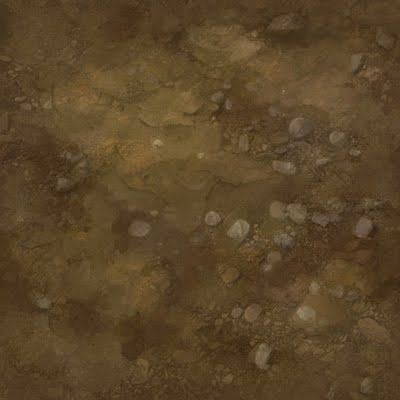
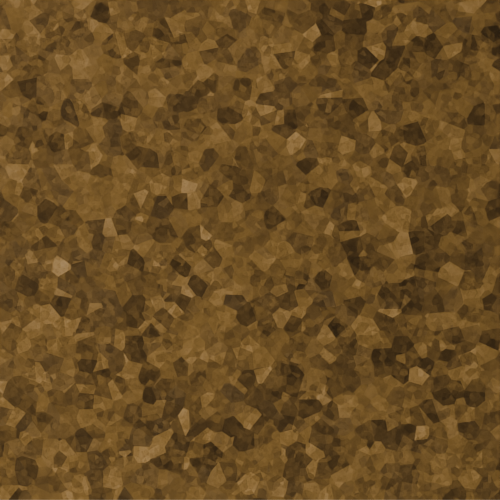
add animation to terrain tiles

diff --git a/traveler/src/a-game-scenes/location-scene/components/tile-components/relief-tile.vue b/traveler/src/a-game-scenes/location-scene/components/tile-components/relief-tile.vue
@@ -5,15 +5,23 @@
       :class="`tile-id-${tile.id}`"
       :data-id="tile.id"
   >
-    <div class="initialTileView mapTile" :style="getTileImage(tile.imageSrc)">
+    <div
+        class="initialTileView mapTile"
+        :style="getTileImage(tile.imageSrc)"
+        :class="{
+          'shake': isShaking,
+        }"
+    >
       <button
           class="mapTile tileButton"
           :disabled="!tile.isReachable"
           :class="{
     unreachable: !tile.isReachable,
     'reachable-tile': tile.isReachable && !tile.isHeroHere,
+    'chop-cursor': tile.isInitial && !isShaking,
+    'chop': isShaking
   }"
-          @click="checkTile(tile)"
+          @click="onTileClick(tile)"
       ></button>
     </div>
   </div>
@@ -36,13 +44,26 @@ export default {
   data() {
     const mapLocationStore = useMapLocationStore();
     const heroStore = useHeroStore();
-    return {mapLocationStore, heroStore};
+    return {
+      mapLocationStore,
+      heroStore,
+      isShaking: false,
+    };
   },
   methods: {
     getTileImage(imageSrc: string) {
       return {
         backgroundImage: `url(${imageSrc})`,
       };
+    },
+    async onTileClick(tile: TileModel) {
+      if (!tile.isReachable) return;
+
+      this.isShaking = true;
+      setTimeout(() => {
+        this.isShaking = false;
+        this.checkTile(tile);
+      }, 1000);
     },
     async checkTile(tile: TileModel) {
       if (!tile.isReachable) return;
@@ -58,4 +79,61 @@ export default {
 
 <style scoped>
 @import '@/a-game-scenes/location-scene/styles/animated-tile.css';
+
+@keyframes shake {
+  0% {
+    transform: translate(0, 0);
+  }
+  20% {
+    transform: translate(-2px, 0);
+  }
+  40% {
+    transform: translate(2px, 0);
+  }
+  60% {
+    transform: translate(-2px, 0);
+  }
+  80% {
+    transform: translate(2px, 0);
+  }
+  100% {
+    transform: translate(0, 0);
+  }
+}
+
+.shake {
+  animation: shake 0.3s linear 3;
+}
+
+.chop {
+  width: 100%;
+  height: 100%;
+  background-image: url('../../../battlefield-scene/battlefield/assets/axe-cursor-100x100.png');
+  background-repeat: no-repeat;
+  background-position: center;
+
+  animation: chopRotate 0.6s ease-in-out infinite;
+}
+
+@keyframes chopRotate {
+  0% {
+    transform: rotate(0deg);
+  }
+  25% {
+    transform: rotate(-20deg);
+  }
+  50% {
+    transform: rotate(20deg);
+  }
+  75% {
+    transform: rotate(-10deg);
+  }
+  100% {
+    transform: rotate(0deg);
+  }
+}
+
+.chop-cursor {
+  cursor: url('../../../battlefield-scene/battlefield/assets/axe-cursor-100x100.png') 50 50, auto;
+}
 </style>

diff --git a/traveler/src/a-game-scenes/location-scene/components/tile-components/enemy-tile.vue b/traveler/src/a-game-scenes/location-scene/components/tile-components/enemy-tile.vue
@@ -11,10 +11,11 @@
         :class="{
         unreachable: !tile.isReachable,
         'reachable-tile': tile.isReachable && !tile.isHeroHere,
+        'sword-cursor': tile.isReachable,
       }"
     >
       <div class="enemy-body-tile-image">
-        <div class="podium-hero-image enemy-stand-base-top-view" />
+        <div class="podium-hero-image enemy-stand-base-top-view"/>
         <div
             class="podium-hero-image"
             :style="enemyStyle"
@@ -25,13 +26,13 @@
 </template>
 
 <script lang="ts">
-import { defineComponent, PropType, computed } from "vue";
+import {defineComponent, PropType, computed} from "vue";
 import TileModel from "@/a-game-scenes/silesia-world-scene/models/tile-model";
 import EnemyModel from "@/models/EnemyModel";
-import { useBattleStore } from "@/stores/battle-store";
-import { useOverlayStore } from "@/stores/overlay-store";
-import { useDiceStore } from "@/stores/DiceStore";
-import { useHeroStore } from "@/stores/HeroStore";
+import {useBattleStore} from "@/stores/battle-store";
+import {useOverlayStore} from "@/stores/overlay-store";
+import {useDiceStore} from "@/stores/DiceStore";
+import {useHeroStore} from "@/stores/HeroStore";
 
 export default defineComponent({
   name: "enemy-tile",
@@ -107,17 +108,6 @@ export default defineComponent({
 <style>
 @import "@/a-game-scenes/location-scene/styles/animated-tile.css";
 
-.enemy-hero-image {
-  position: relative;
-  width: 500px;
-  height: 500px;
-  background-size: contain;
-  background-repeat: no-repeat;
-  background-position: center;
-  pointer-events: none;
-}
-
-
 .enemy-body-tile-image {
   position: relative;
   width: 100%;
@@ -141,5 +131,9 @@ export default defineComponent({
 
 .enemy-stand-base-top-view {
   background-image: url("/images/podiums/brown-stand-base-top-view.png");
+}
+
+.enemy-button.sword-cursor {
+  cursor: url('../../../battlefield-scene/battlefield/assets/sword-cursor-100x100.png') 50 50, auto;
 }
 </style>

diff --git a/traveler/src/a-game-scenes/location-scene/providers/map-location-provider.ts b/traveler/src/a-game-scenes/location-scene/providers/map-location-provider.ts
@@ -22,7 +22,7 @@ export class MapLocationProvider {
             {
                 name: 'Forest',
                 backgroundImagePath: `${this.LOCATION_CONTENT_IMAGES_PATH}tiles-grid-background.png`,
-                tileImage: `${this.LOCATION_CONTENT_IMAGES_PATH}tree-tile-image.png`,
+                tileImage: `${this.LOCATION_CONTENT_IMAGES_PATH}forest-tile-image.png`,
                 tileBackground: `${this.LOCATION_CONTENT_IMAGES_PATH}ground-tile-background.png`,
                 endPoint: 'forest',
                 boss: bosses[randIndex],

diff --git a/traveler/src/a-game-scenes/home-scene/components/home-location.vue b/traveler/src/a-game-scenes/home-scene/components/home-location.vue
@@ -9,7 +9,7 @@
             :key="n"
             class="buildingTile tileBackground"
         ></div>
-        <div class="buildingTile initBuildingTile tileBackground" @click="openDressingRoom">
+        <div class="buildingTile initBuildingTile tileBackground">
           <div class="icon dressing-room-icon"/>
         </div>
         <div class="buildingTile initBuildingTile tileBackground" @click="openInventory">
